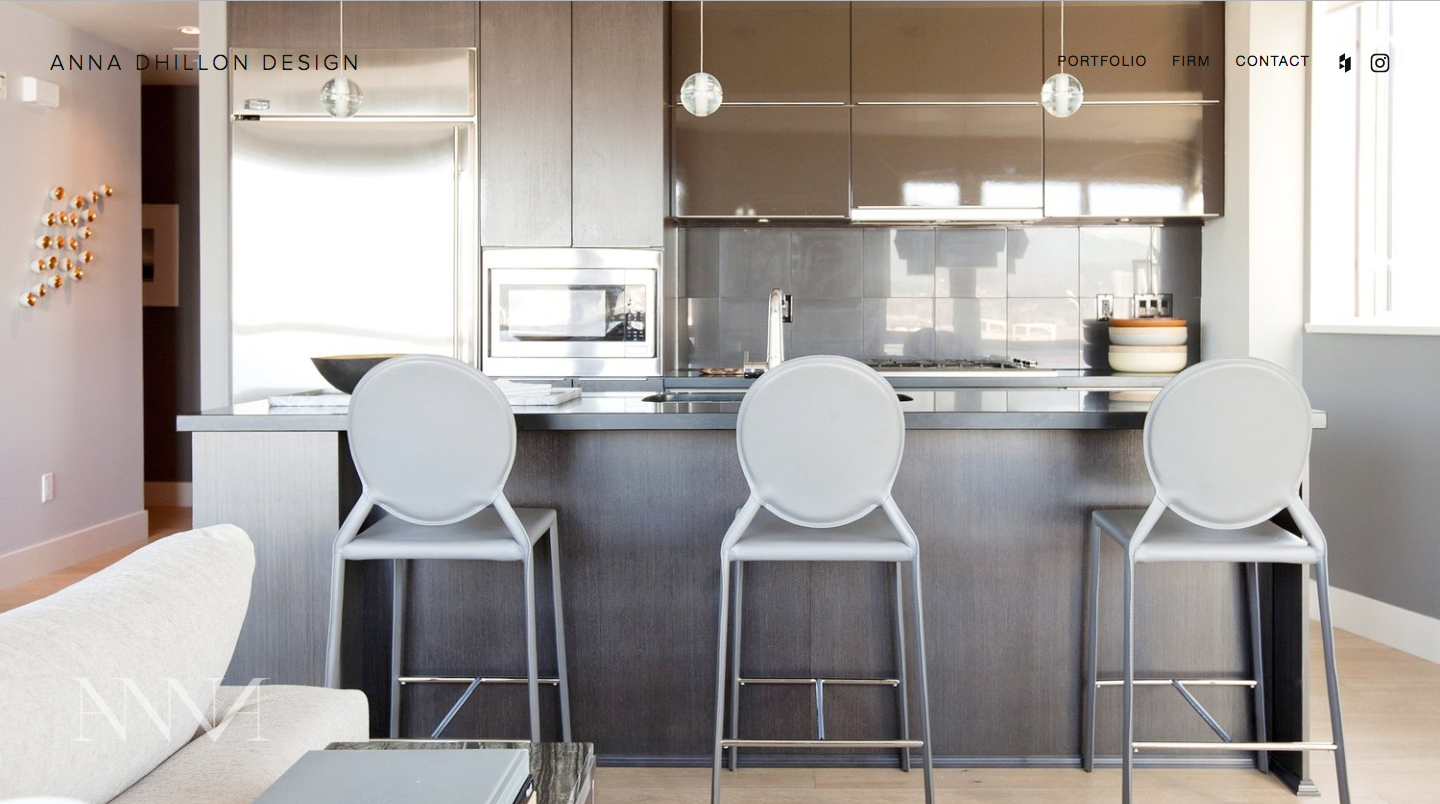
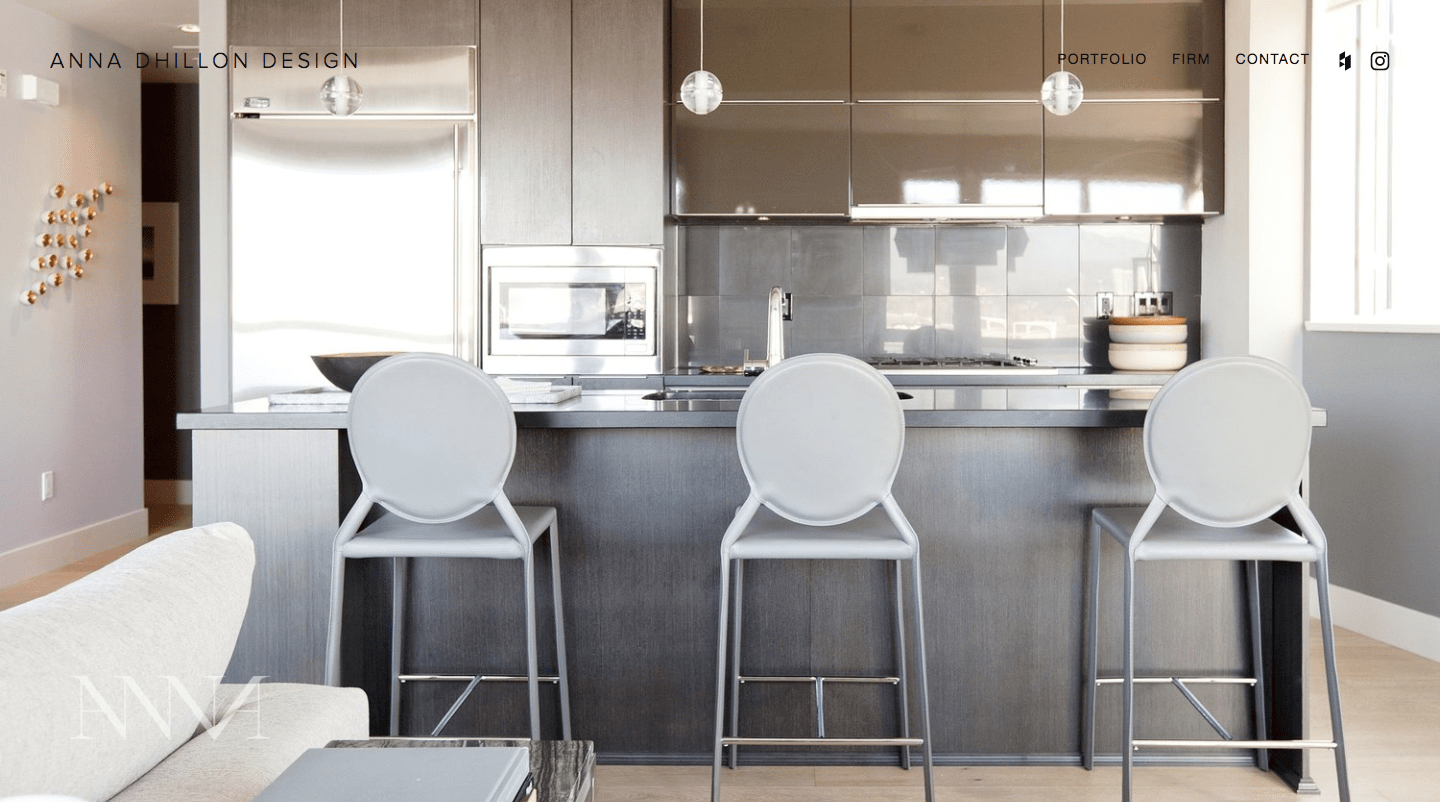
Compressed Anna's image

diff --git a/src/components/Chips/index.js b/src/components/Chips/index.js
@@ -1,4 +1,5 @@
 import React, { Component } from 'react'
+import { Motion, spring } from 'react-motion'
 
 // Material UI
 import Chip from 'material-ui/Chip'
@@ -32,16 +33,20 @@ export default class Chips extends Component {
           const isSelected = tech === selected
           const backgroundColor = isSelected ? '#FF4081' : '#03A9F4'
           return (
-            <Chip
-              key={tech}
-              style={styles.chip}
-              labelStyle={styles.label}
-              backgroundColor={backgroundColor}
-              onTouchTap={() => handleSelect(tech)}
-              onRequestDelete={() => handleRequestDelete(tech)}
-            >
-              {tech}
-            </Chip>
+            <Motion defaultStyle={{ x: 0 }} style={{ x: spring(10) }}>
+              {interpolatingStyle => (
+                <Chip
+                  key={tech}
+                  style={styles.chip}
+                  labelStyle={styles.label}
+                  backgroundColor={backgroundColor}
+                  onTouchTap={() => handleSelect(tech)}
+                  onRequestDelete={() => handleRequestDelete(tech)}
+                >
+                  {tech}
+                </Chip>
+              )}
+            </Motion>
           )
         })}
 

diff --git a/src/data/projects.js b/src/data/projects.js
@@ -35,7 +35,7 @@ const projects = [
   },
   {
     title: 'Foodee Meal Plans',
-    technologies: ['Foundations 6', 'SASS'],
+    technologies: ['SASS', 'Foundations 6'],
     image: foodeeMealPlans,
     url: 'https://www.food.ee/office-meal-plan/',
     github: null,
